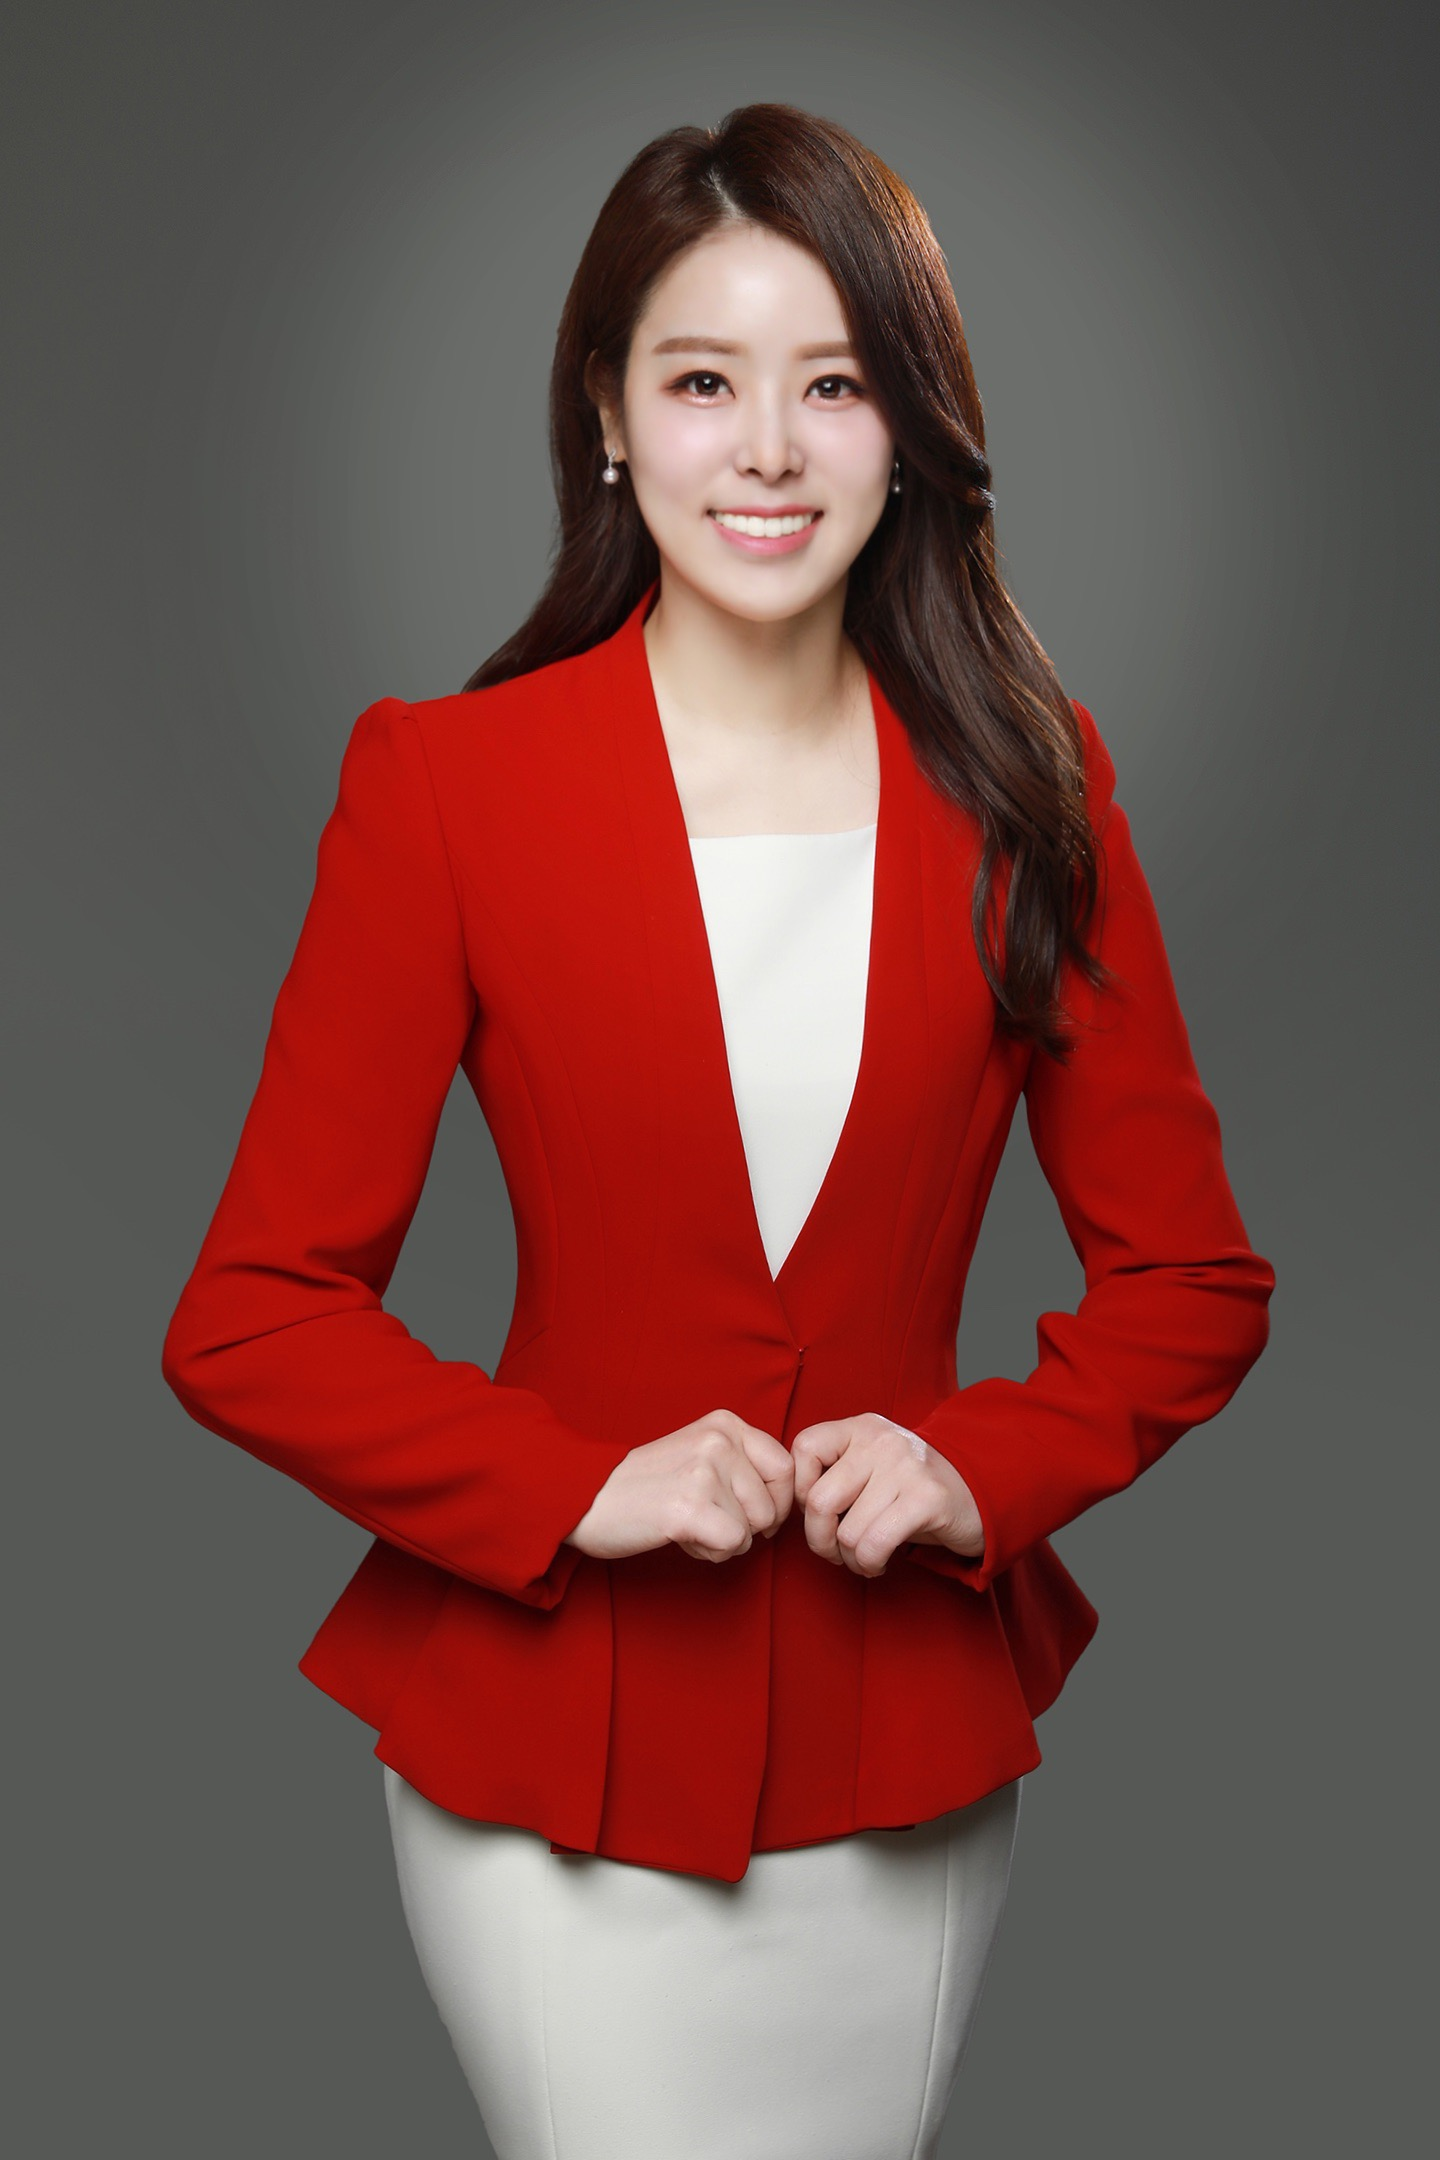
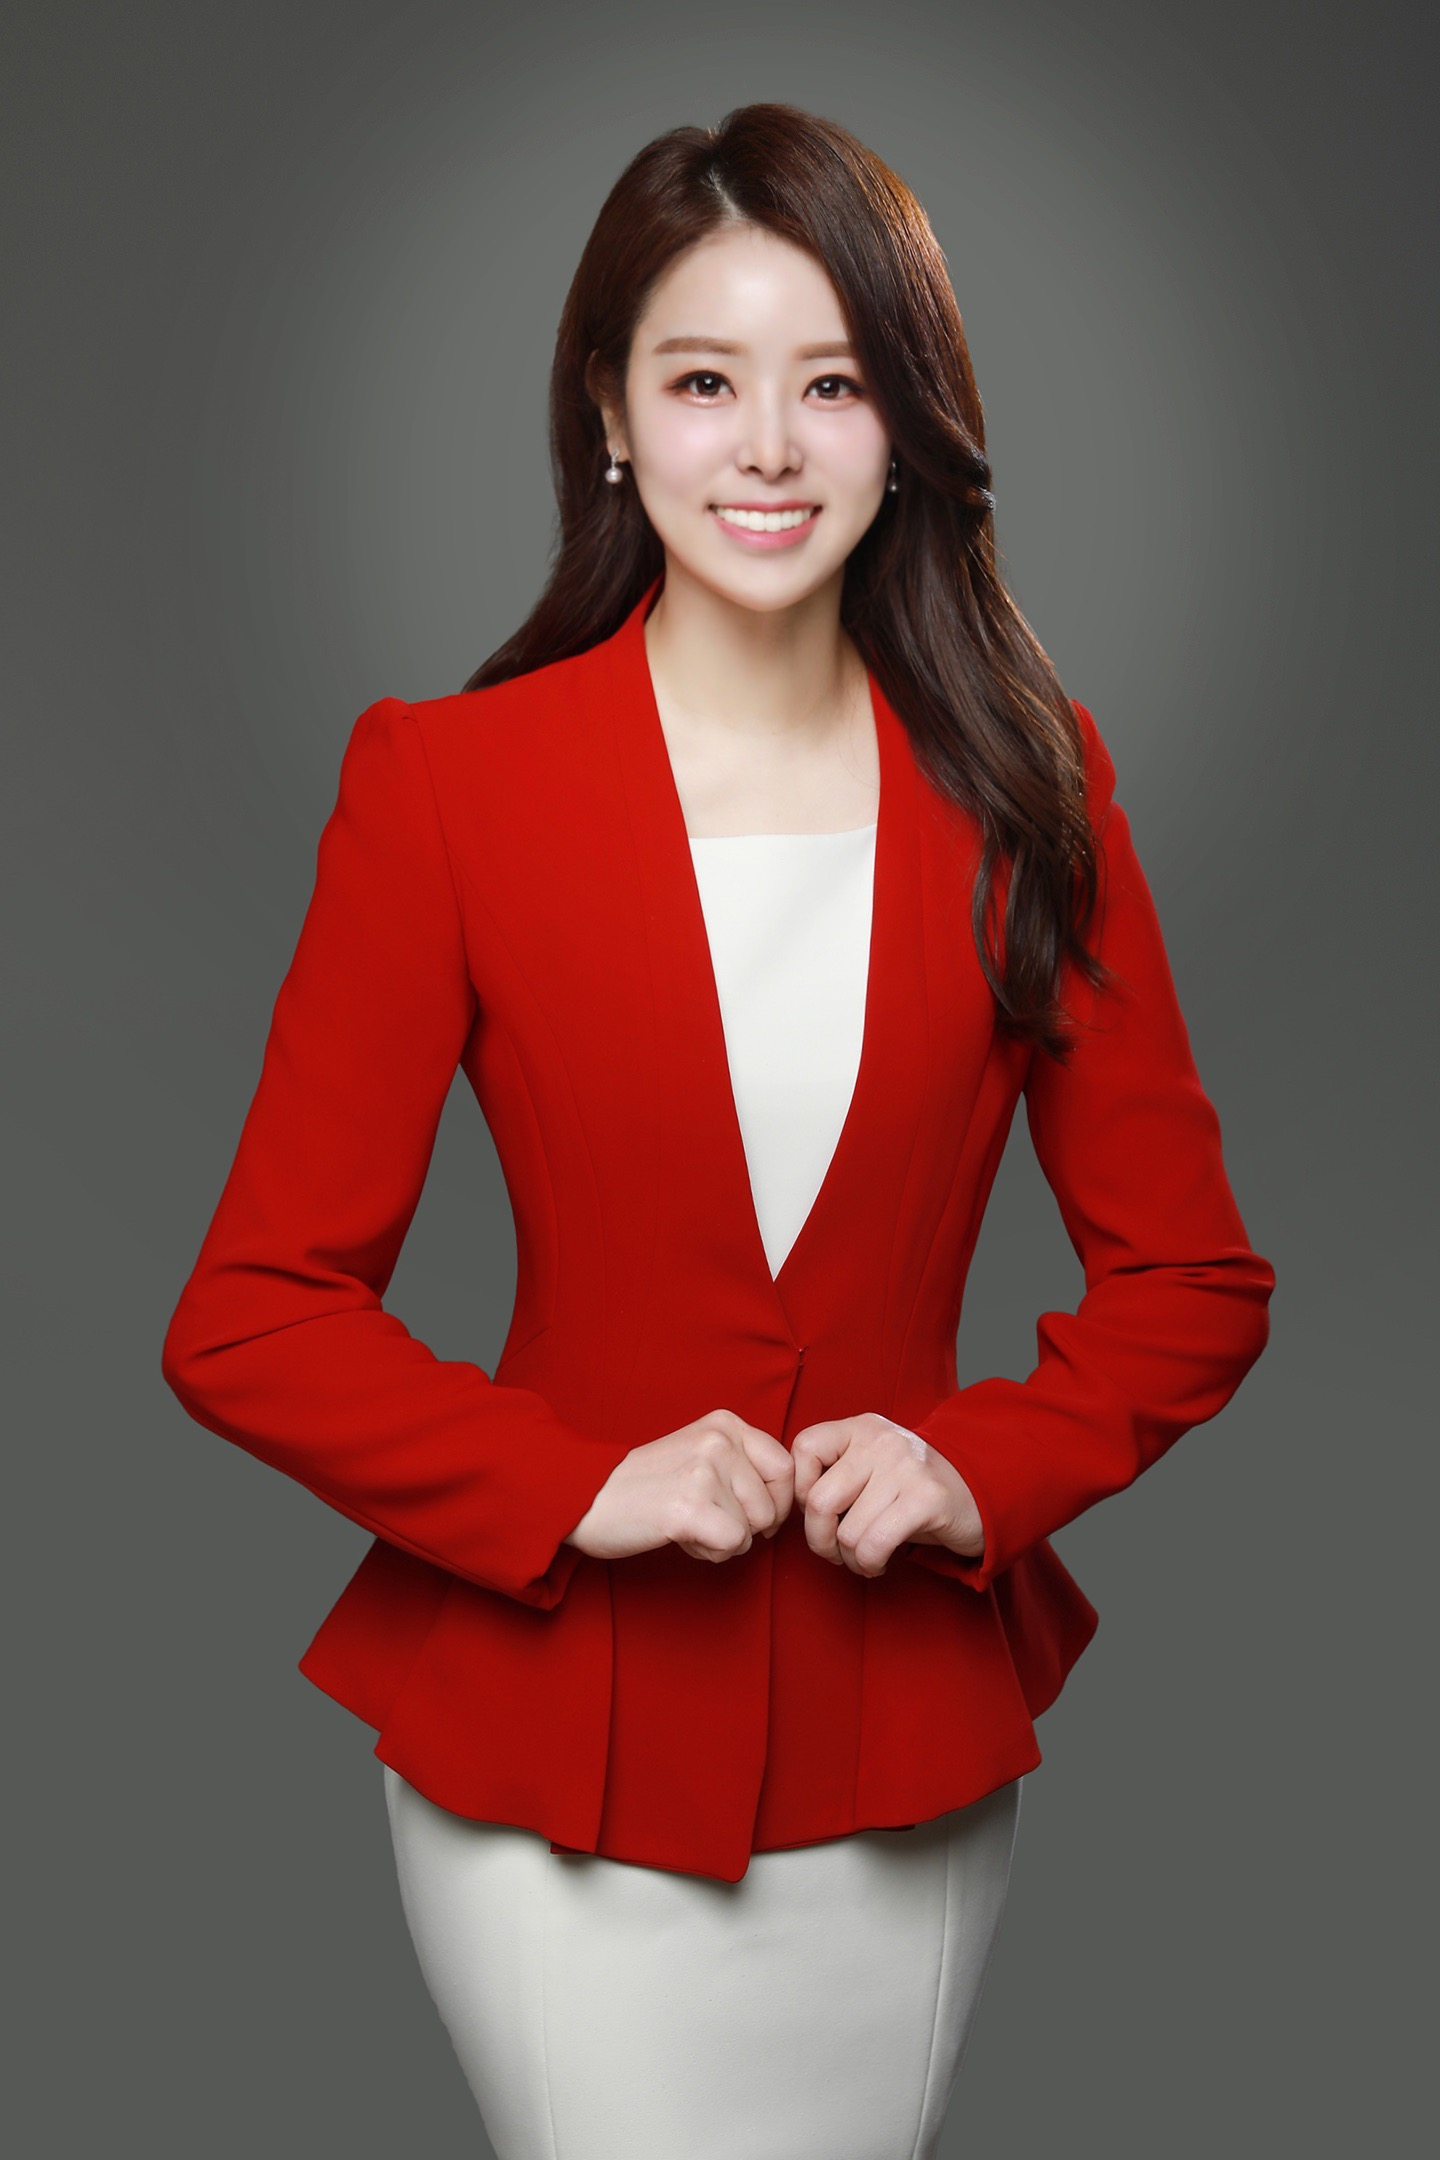
이미지 교체, 추가

Changed region(s): [[0.4375, 0.1861, 0.625, 0.3102], [0.4062, 0.1861, 0.4375, 0.2171]]

diff --git a/sample/index.html b/sample/index.html
@@ -585,6 +585,9 @@
                     <div class="grid-item">
                       <img src="image/media/announcer/18.jpg" class="img-zoomable">
                     </div>
+                    <div class="grid-item">
+                      <img src="image/media/announcer/19.jpg" class="img-zoomable">
+                    </div>
                   </div>
                 </div>
                 <div role="tabpanel" id="media-image-model" class="tab-pane">
@@ -674,6 +677,9 @@
         </li>
         <li>
           <img src="image/gallery/12.jpg">
+        </li>
+        <li>
+          <img src="image/gallery/13.jpg">
         </li>
       </ul>
     </div>
